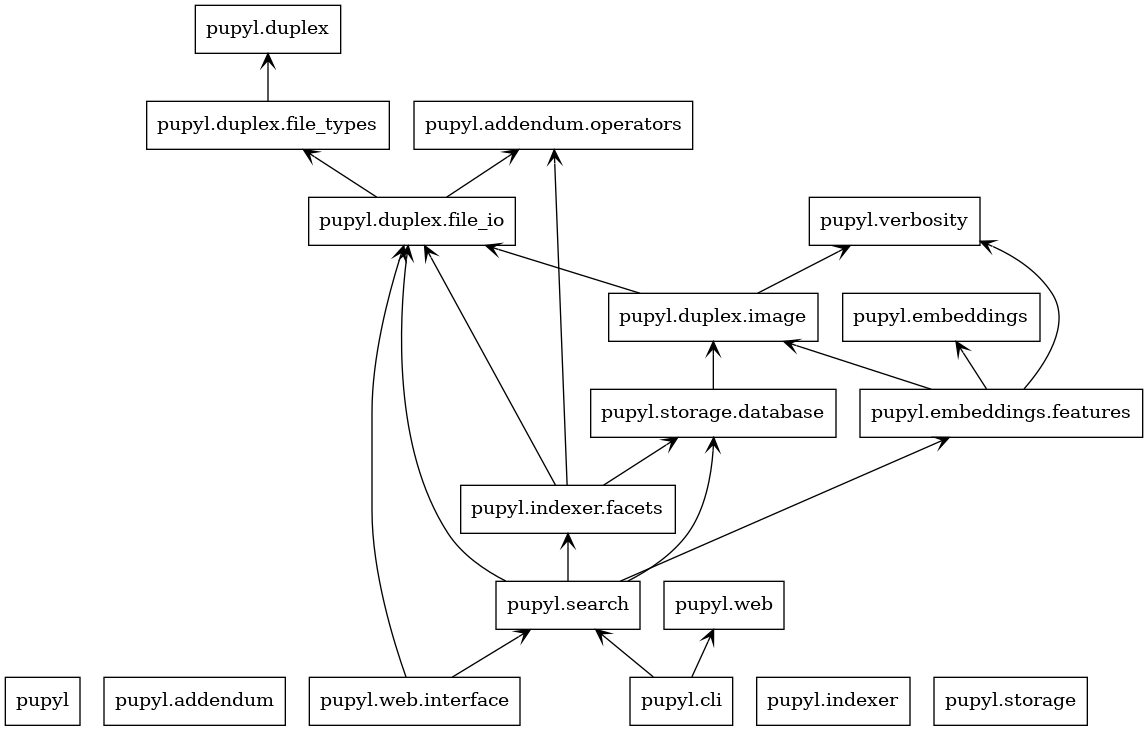
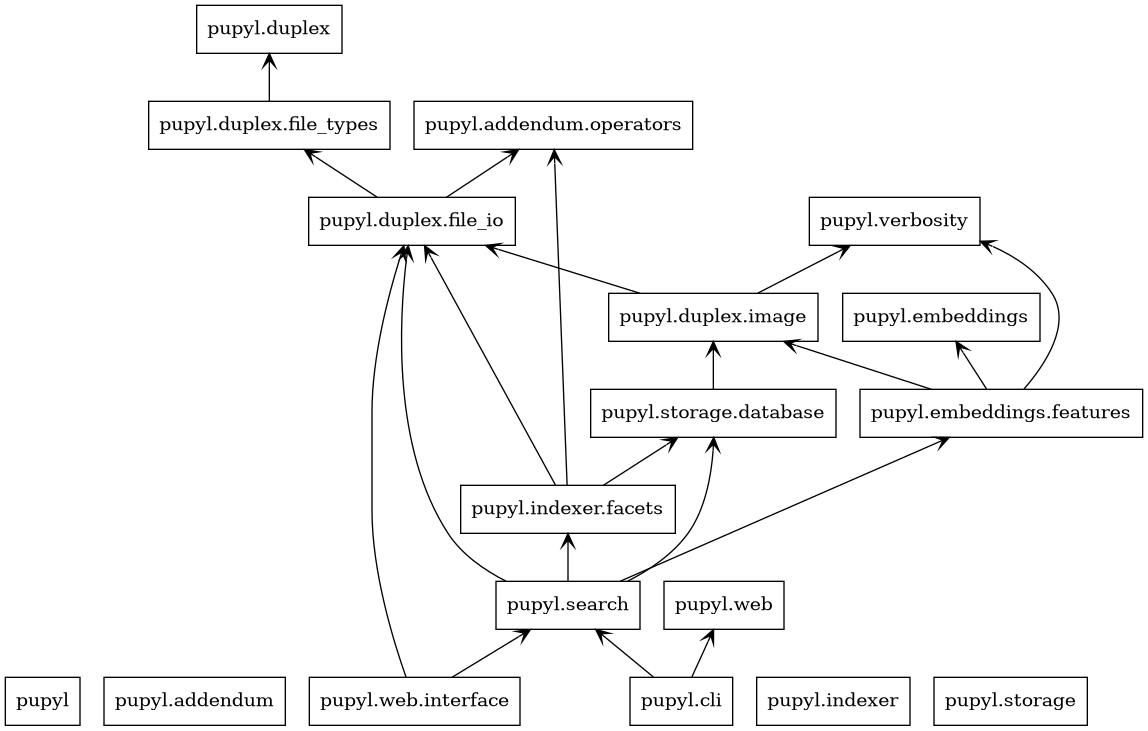
✨ Keeping ids on export and version updates

diff --git a/pupyl/indexer/facets.py b/pupyl/indexer/facets.py
@@ -613,7 +613,7 @@ class Index:
 
             self.export_results(save_path, similars)
 
-    def export_results(self, path, similars):
+    def export_results(self, path, similars, keep_ids=False):
         """Export internal image at ``position`` by copying it to ``path``.
 
         Parameters
@@ -623,6 +623,9 @@ class Index:
 
         similars: iterable
             Containing image ids to export to ``path``.
+
+        keep_ids: bool
+            If the original ids must be preserved or not.
         """
         os.makedirs(path, exist_ok=True)
 
@@ -633,14 +636,13 @@ class Index:
                 filtered=['internal_path']
             )['internal_path']
 
-            file_extension = self._image_database.extension(
-                original_file_path
-            )
-
-            copy(
-                original_file_path,
-                os.path.join(
-                    path,
-                    f'{rank + 1}{file_extension}'
+            if keep_ids:
+                file_name = os.path.basename(original_file_path)
+            else:
+                file_extension = self._image_database.extension(
+                    original_file_path
                 )
-            )
+
+                file_name = f'{rank + 1}{file_extension}'
+
+            copy(original_file_path, os.path.join(path, file_name))

diff --git a/pupyl/cli.py b/pupyl/cli.py
@@ -95,6 +95,10 @@ class PupylCommandLineInterface:
             '--top', type=int, default=10, metavar='n',
             help='filters how many results to show.'
         )
+        export_parser.add_argument(
+            '--keep_ids', action='store_true',
+            help='should the original image ids must be preserved or not.'
+        )
 
         return parser
 
@@ -163,7 +167,8 @@ def pupyl():
 
     elif args.options == 'export':
         pupyl_search.indexer.export_results(
-            args.output, pupyl_search.search(args.query, top=args.top)
+            args.output, pupyl_search.search(args.query, top=args.top),
+            args.keep_ids
         )
     else:
         cli.parsers().print_help()

diff --git a/setup.py b/setup.py
@@ -8,7 +8,7 @@ with open('README.md') as readme:
 
 setuptools.setup(
     name="pupyl",
-    version="0.13.1",
+    version="0.13.2",
     author="Nelson Forte",
     author_email="policratus@gmail.com",
     description="🧿 Pupyl is a really fast image search "
@@ -19,8 +19,8 @@ setuptools.setup(
     url="https://github.com/policratus/pupyl",
     packages=setuptools.find_packages(),
     install_requires=[
-        'tensorflow==2.7.0',
-        'keras==2.7.0',
+        'tensorflow==2.8.0',
+        'keras==2.8.0',
         'annoy==1.17.0'
     ],
     classifiers=[

diff --git a/pupyl/embeddings/features.py b/pupyl/embeddings/features.py
@@ -10,8 +10,8 @@ from pupyl.verbosity import quiet_tf
 quiet_tf()
 
 import tensorflow
-import tensorflow.keras.backend as backend
-import tensorflow.keras.applications as networks
+import keras.backend as backend
+import keras.applications as networks
 
 from pupyl.duplex.image import ImageIO
 from pupyl.embeddings import exceptions

diff --git a/docs/source/conf.py b/docs/source/conf.py
@@ -11,7 +11,7 @@ project = '🧿 pupyl'
 copyright = f'{datetime.today().year}, Nelson Forte'
 author = 'Nelson Forte'
 
-release = '0.13.1'
+release = '0.13.2'
 version = release
 
 # -- General configuration ---------------------------------------------------

diff --git a/pupyl/search.py b/pupyl/search.py
@@ -5,7 +5,7 @@ Pupyl is a really fast image search library which you
 can index your own (millions of) images and find similar
 images in milliseconds.
 """
-__version__ = 'v0.13.1'
+__version__ = 'v0.13.2'
 
 
 import os
